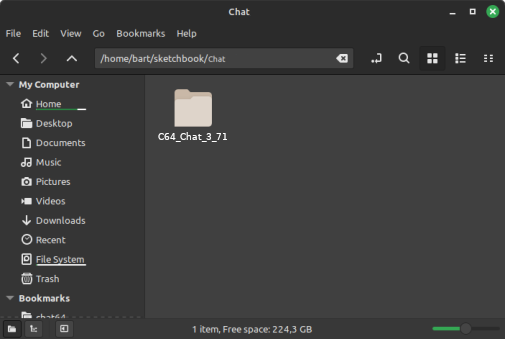
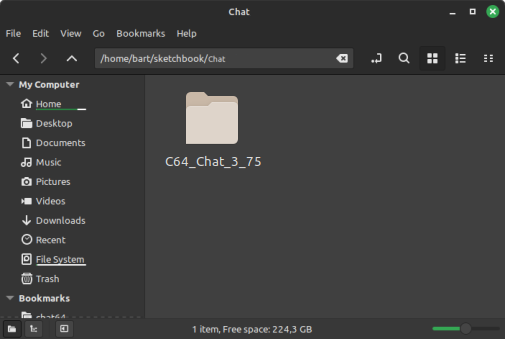
updated documentation

Changed region(s): [[0.297, 0.2655, 0.5347, 0.5015]]

diff --git a/ESP32 Sketch/readme.md b/ESP32 Sketch/readme.md
@@ -9,7 +9,7 @@ This revision uses ESP32 version 3.0 (in boards manager)
 
 <img src="/Artwork/updt1.png" width="300">
  
-2) Open C64_Chat_3_73.ino in Arduino IDE. You should see that the other files have been opened automatically.
+2) Open C64_Chat_3_75.ino in Arduino IDE. You should see that the other files have been opened automatically.
 
 <img src="/Artwork/updt2.png" width="400">
 
@@ -27,4 +27,4 @@ This revision uses ESP32 version 3.0 (in boards manager)
 <img src="/Artwork/updt4.png" width="400">
 
 ---
-last updated for version 3.73
+last updated for version 3.75
